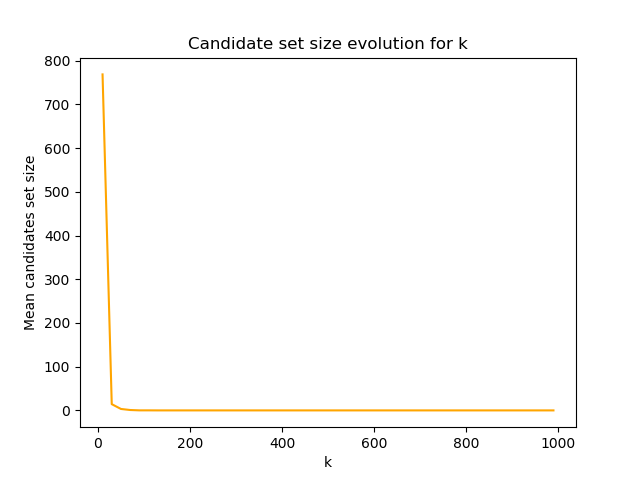
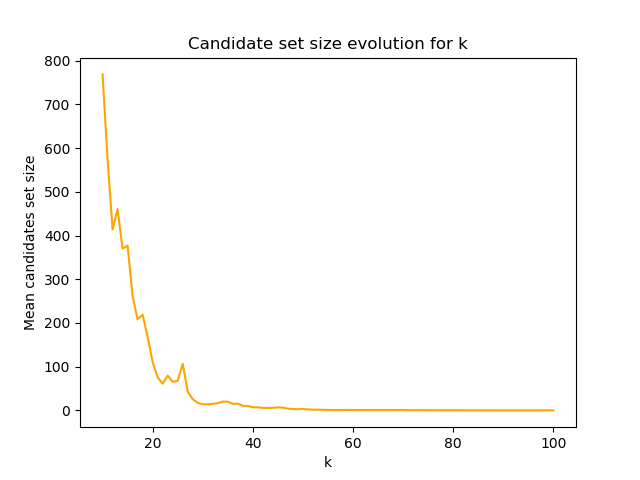
Things

diff --git a/S8/lsh.py b/S8/lsh.py
@@ -66,7 +66,6 @@ class LSH(object):
         :param i: # hash code (0 <= i < m)
         :return:
         """
-        """ get the i'th hash code of image im (0 <= i < m)"""
         pixels = img.flatten()
         row = self.hash_bits[i]
         code = ""
@@ -82,7 +81,6 @@ class LSH(object):
         :param img: image to look for matching candidates
         :return: set of matching images ids
         """
-        """ given image im, return matching candidates (well, the indices) """
         res = set()
         for i in range(self.m):
             code = self.hash_code(img, i)

diff --git a/S8/time_experiments.py b/S8/time_experiments.py
@@ -26,8 +26,8 @@ def test_lsh_parameters(_k, _m):
 
 
 if __name__ == '__main__':
-    ks = list(range(10, 1001, 20))
-    ms = list(range(5, 201, 5))
+    ks = list(range(10, 101, 1))
+    ms = list(range(5, 10, 5))
 
     k_times = []
     k_csize = []
